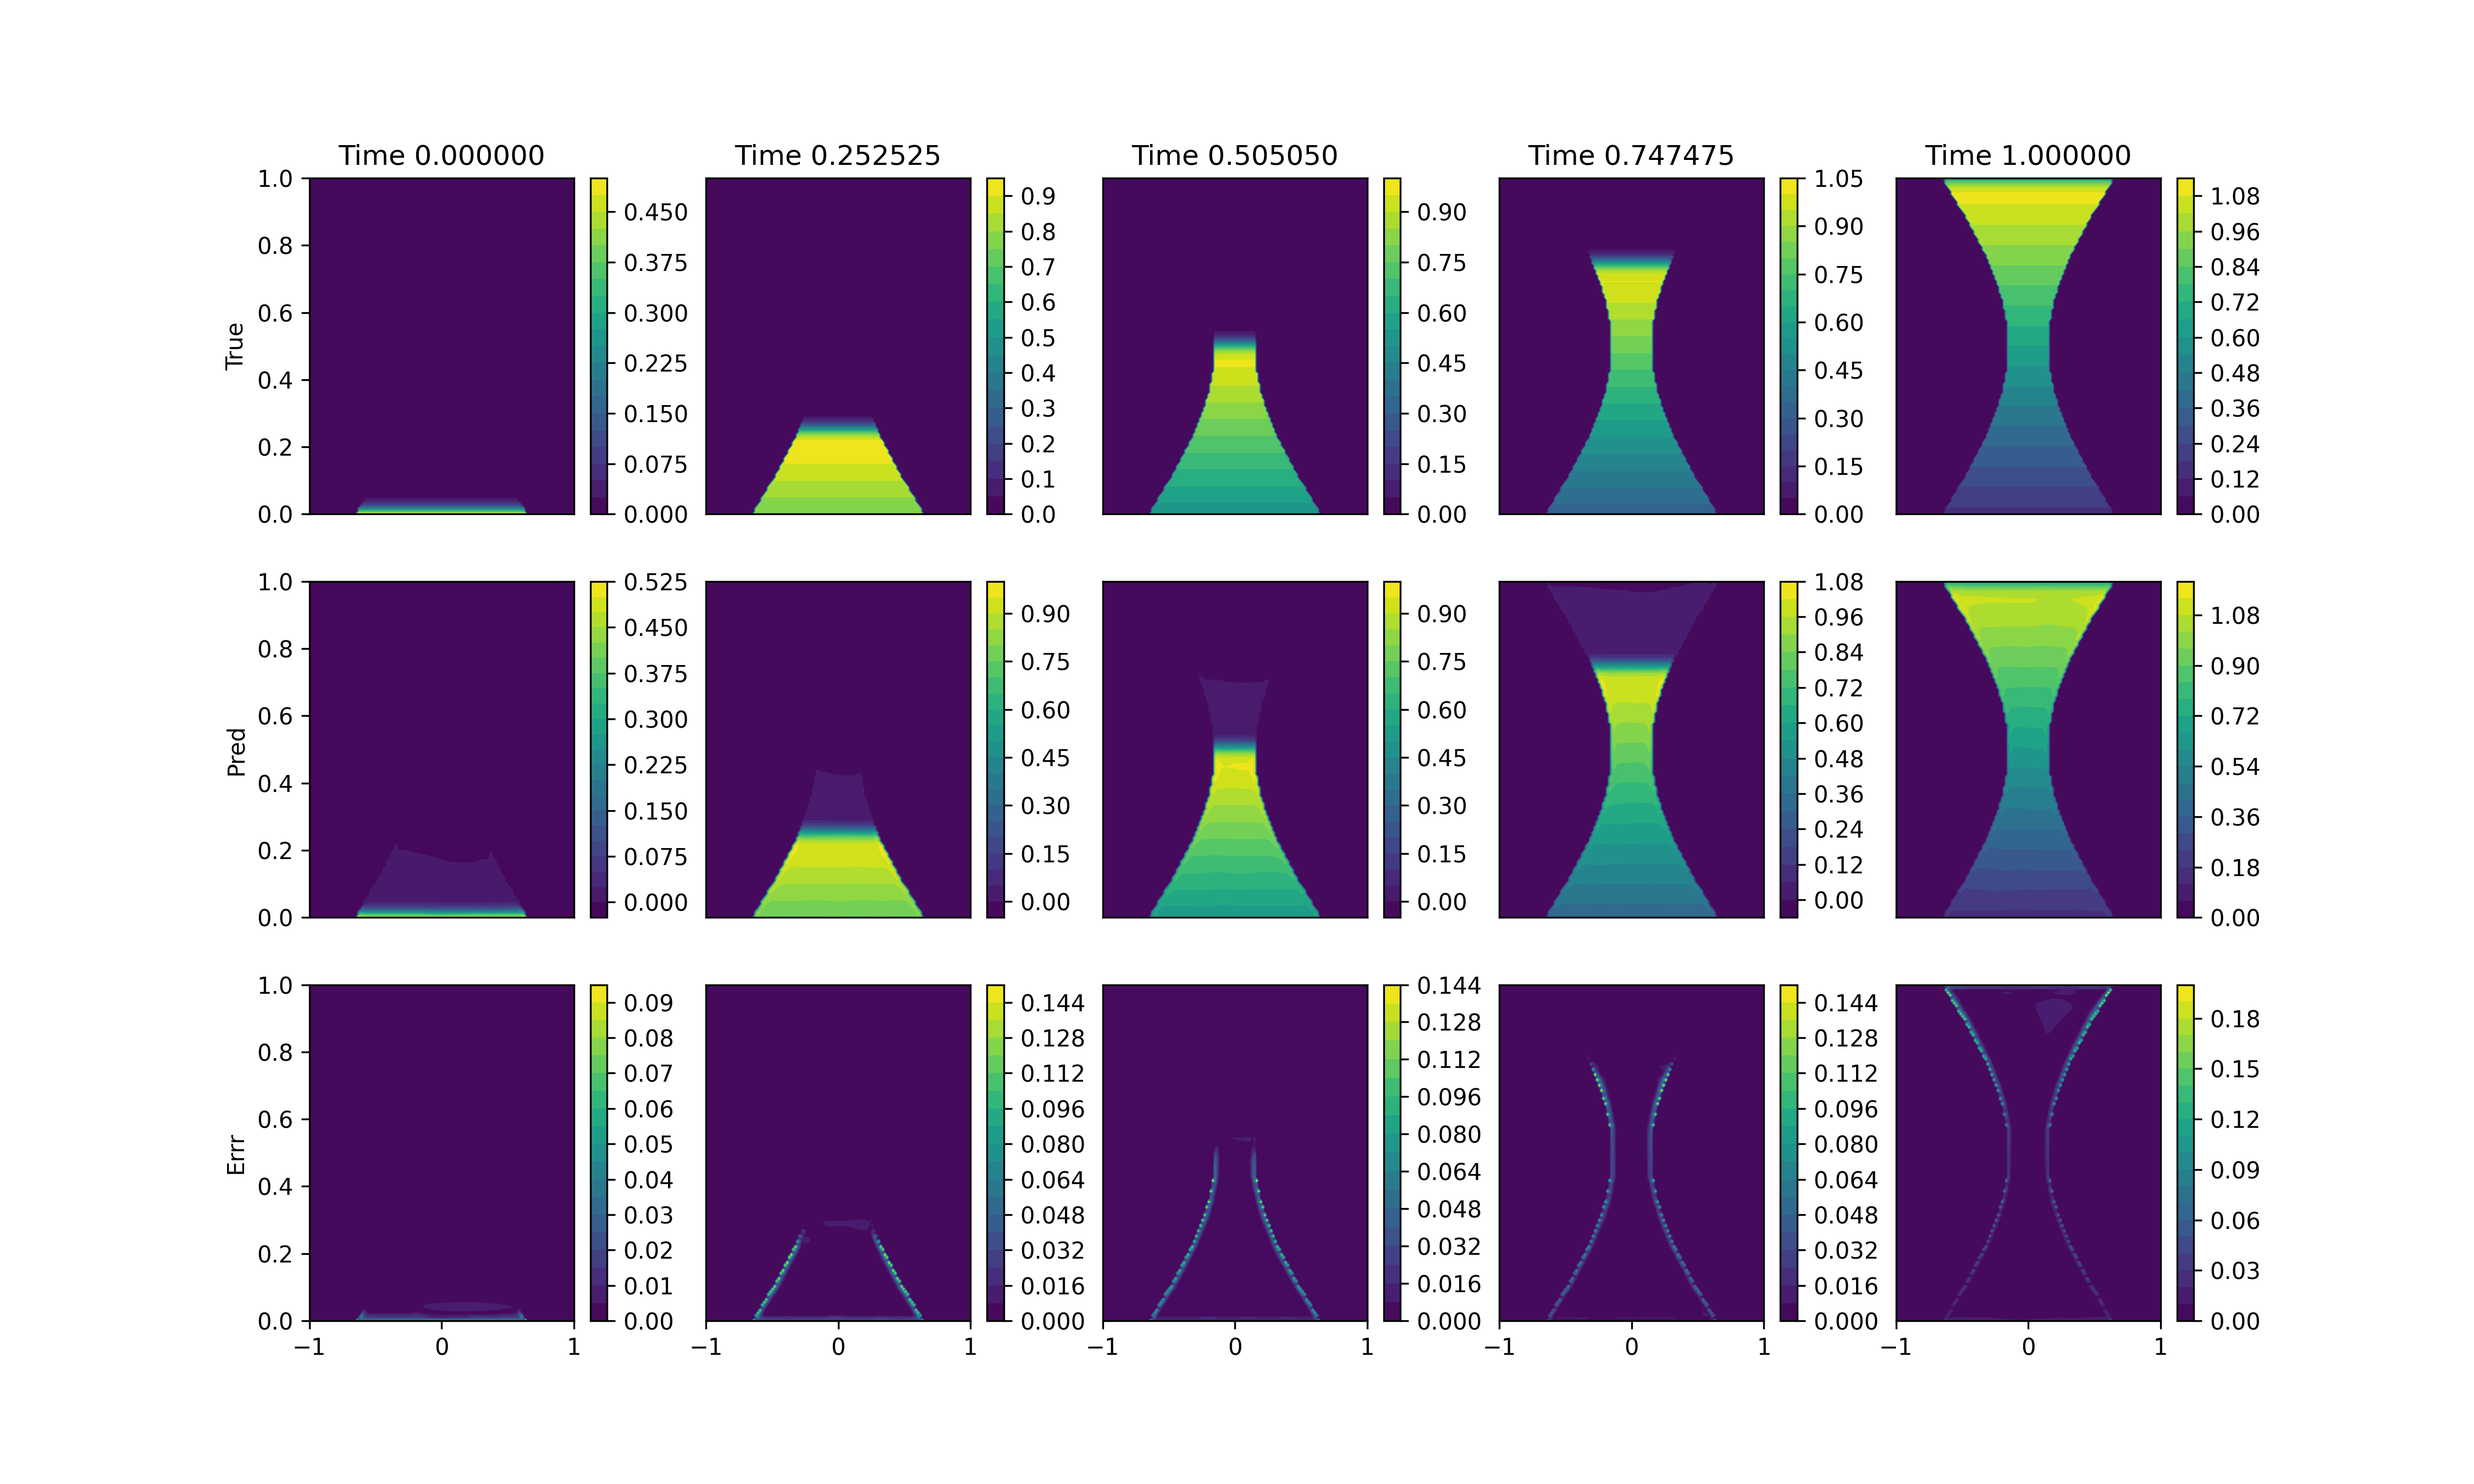
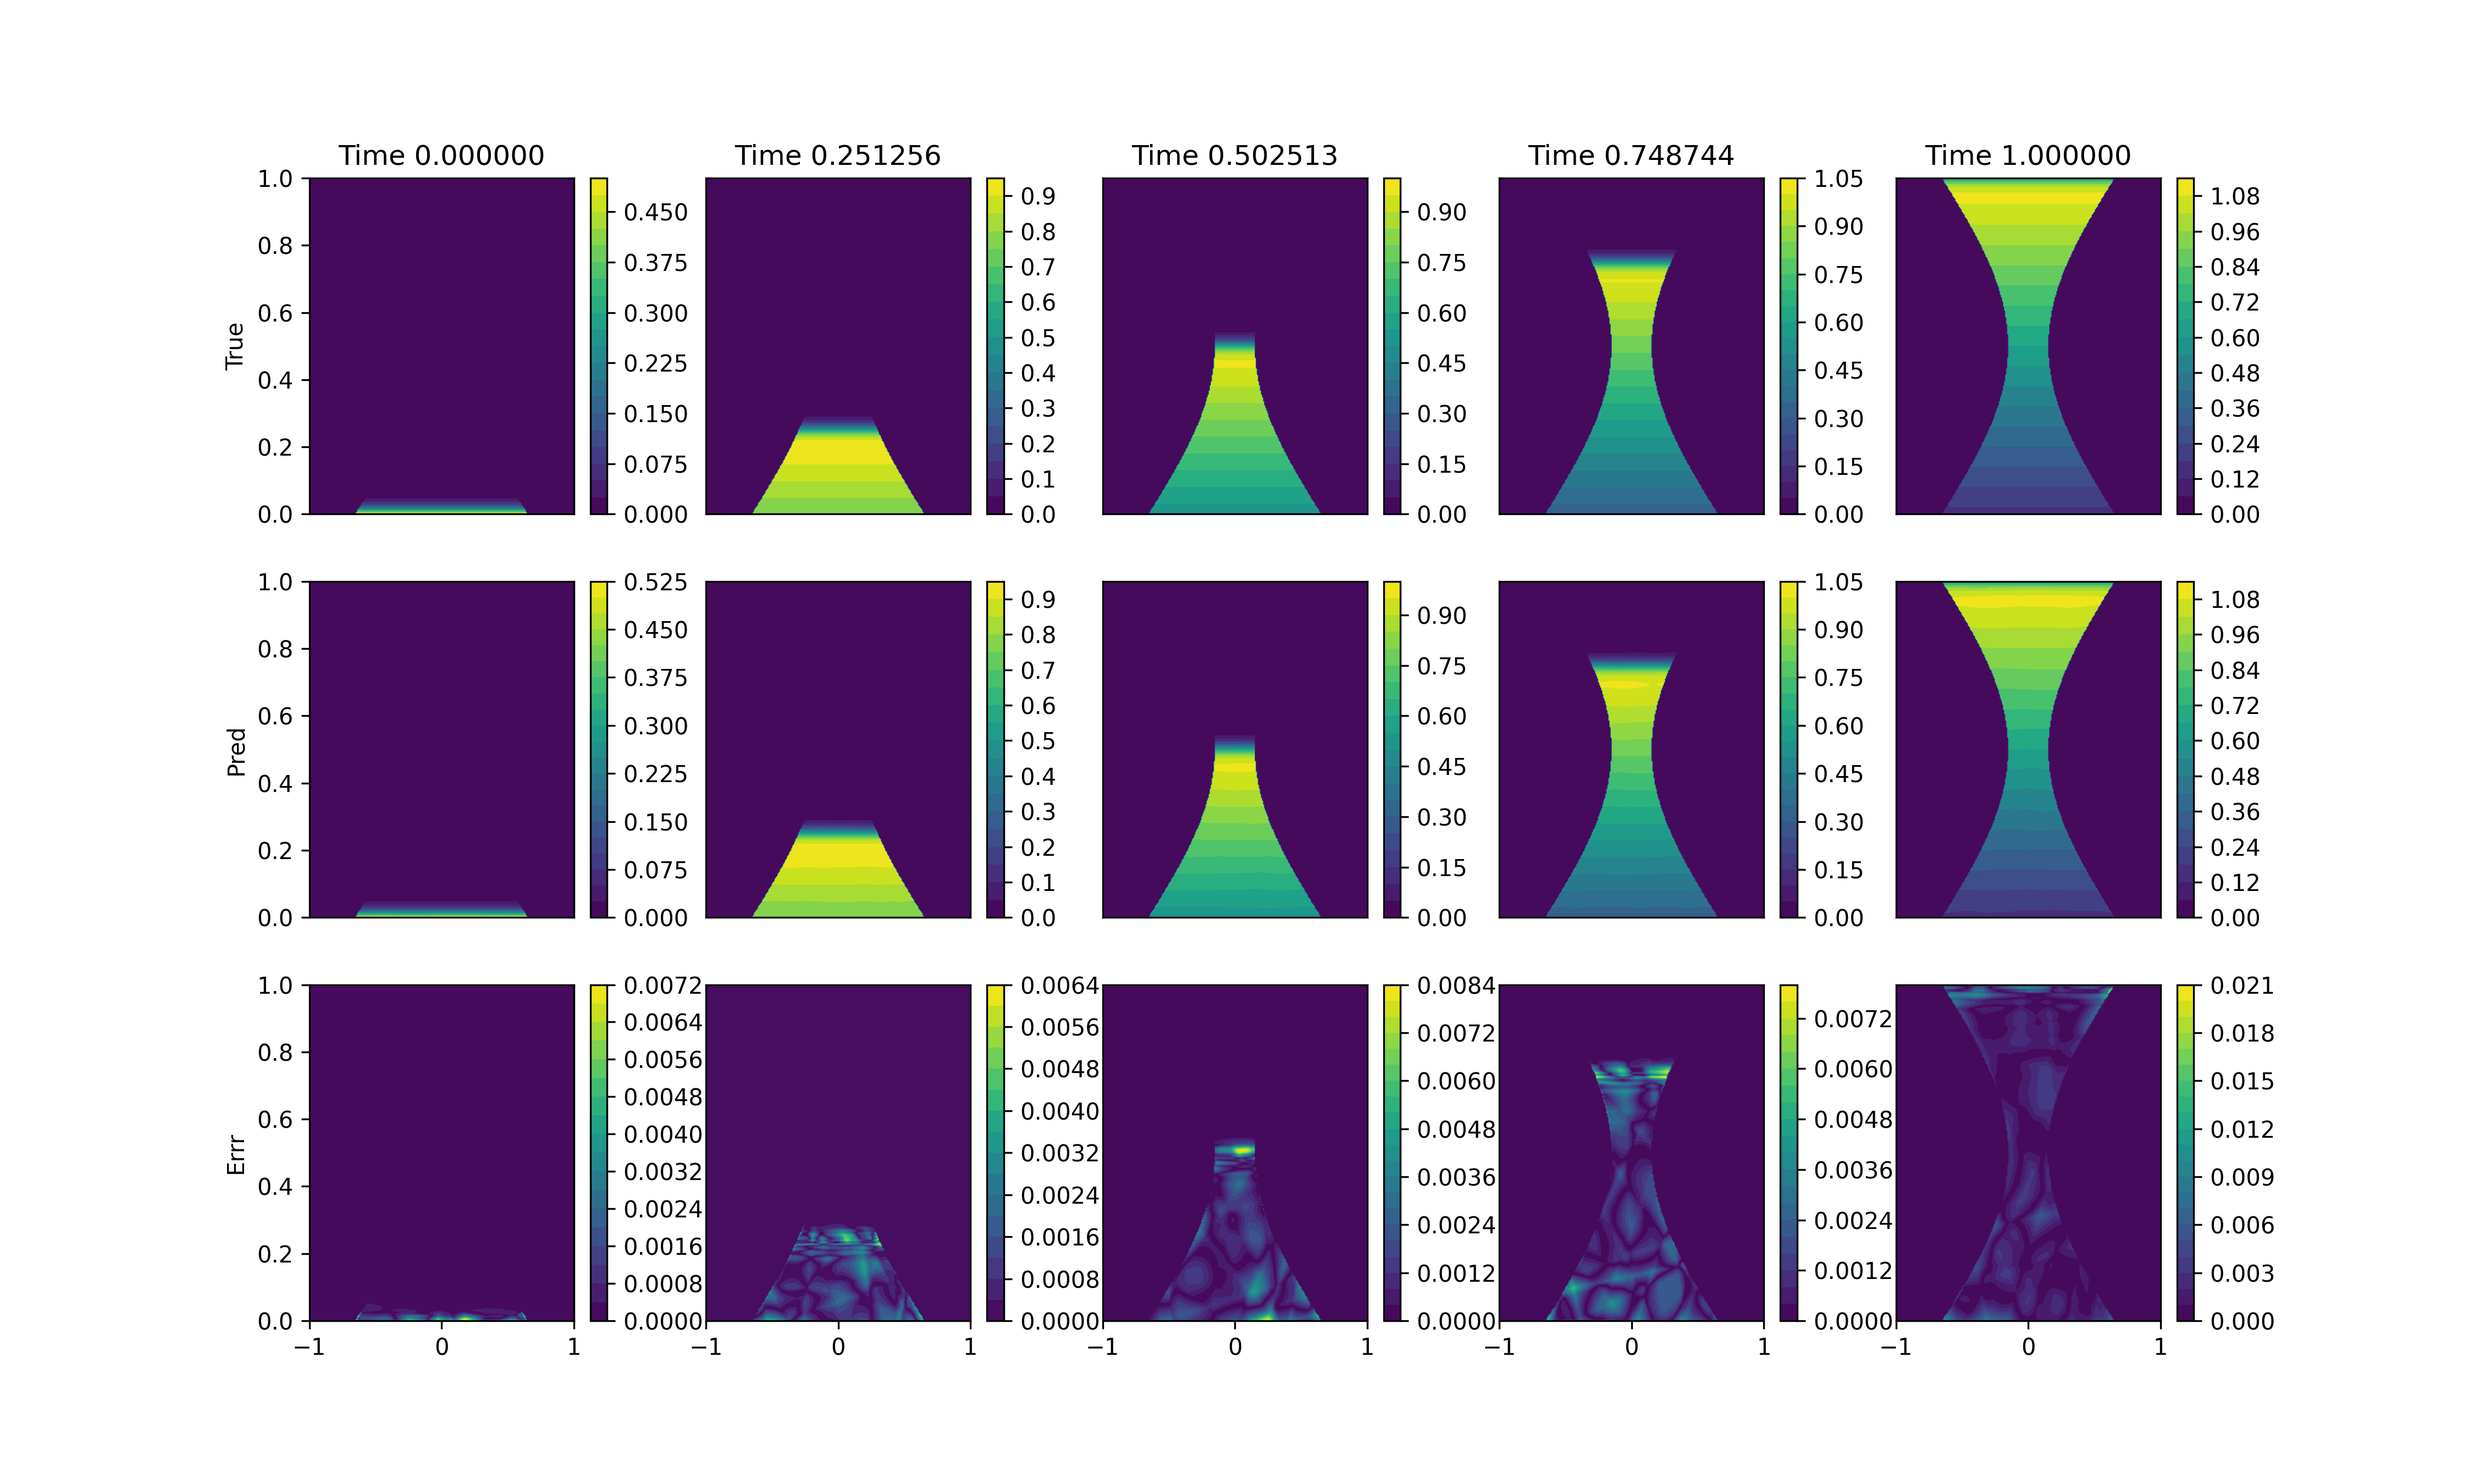
MGN is looking good

diff --git a/sandbox/__main__.py b/sandbox/__main__.py
@@ -106,9 +106,8 @@ def train_gnn(device, outdir, resdir, name, blend=True, train=True):
         nw1 = torch.inf
         nw2 = torch.inf
 
-    nx, nz, nt = 128, 128, 50
+    nx, nz, nt = 256, 256, 200
     shape = sandbox.Shape(nx, nz, nt, nw1, nw2, blend=blend)
-
     data, metadata = sandbox.makedata(
         shape, inputs="xzt", outputs="T", datatype="graph", mask="finaltime",
     )
@@ -116,13 +115,13 @@ def train_gnn(device, outdir, resdir, name, blend=True, train=True):
     # MODEL
     # ci, co, w, num_layers = 3, 1, 256, 4
     # model = MaskedGNN(shape, ci, co, w, num_layers)
-    ci, co, w, num_layers = 3, 1, 256, 4
+    ci, co, w, num_layers = 3, 1, 128, 4
     model = MaskedMGN(shape, ci, co, w, num_layers)
 
     # TRAIN
     if train:
         train_loop(
-            model, data, device=device, E=100, gnn=True, _batch_size=4,
+            model, data, device=device, E=100, gnn=True, _batch_size=2,
         )
         torch.save(model.to("cpu").state_dict(), modelfile)
 
@@ -132,9 +131,6 @@ def train_gnn(device, outdir, resdir, name, blend=True, train=True):
         num_nodes = data[0].num_nodes
         temp = mlutils.eval_gnn(data, model, device, batch_size=4)
         temp = temp.reshape(shape.nt, num_nodes)
-
-        print(torch.max(temp))
-        print(torch.min(temp))
 
         pred1 = torch.zeros(nt, nz * nx)
         pred1[:, shape.glo_node_index] = temp # 1
